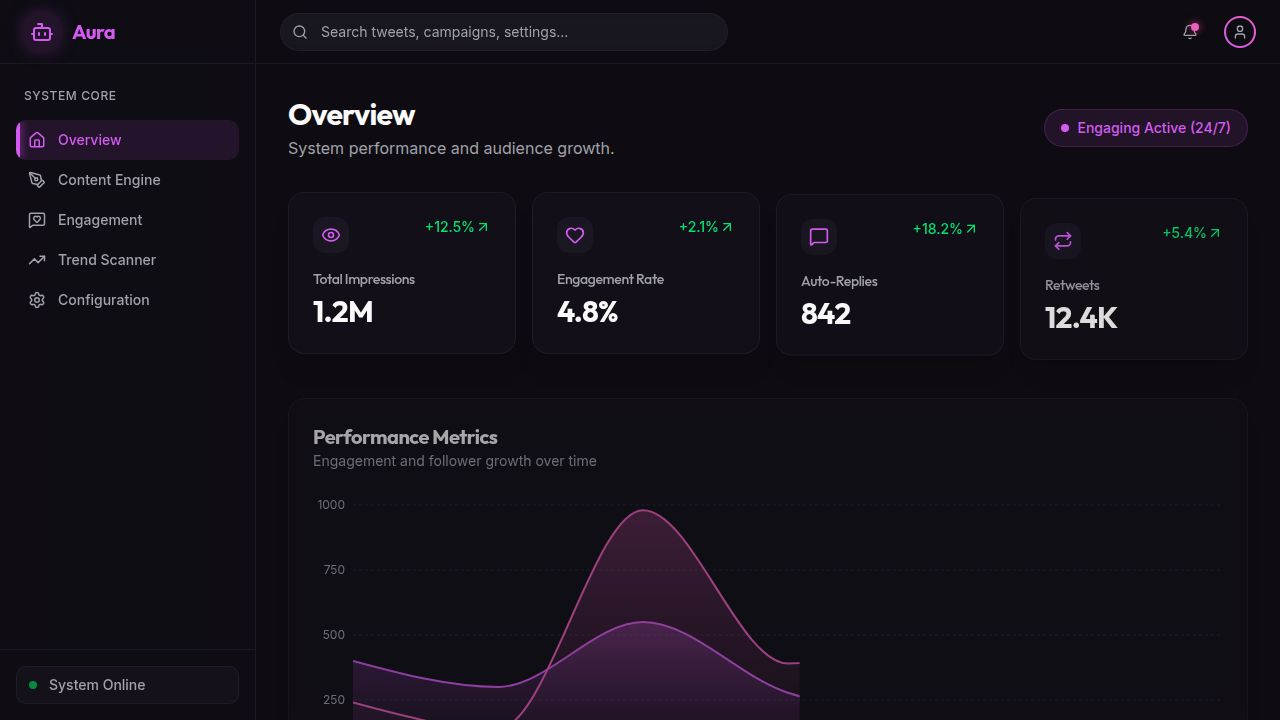
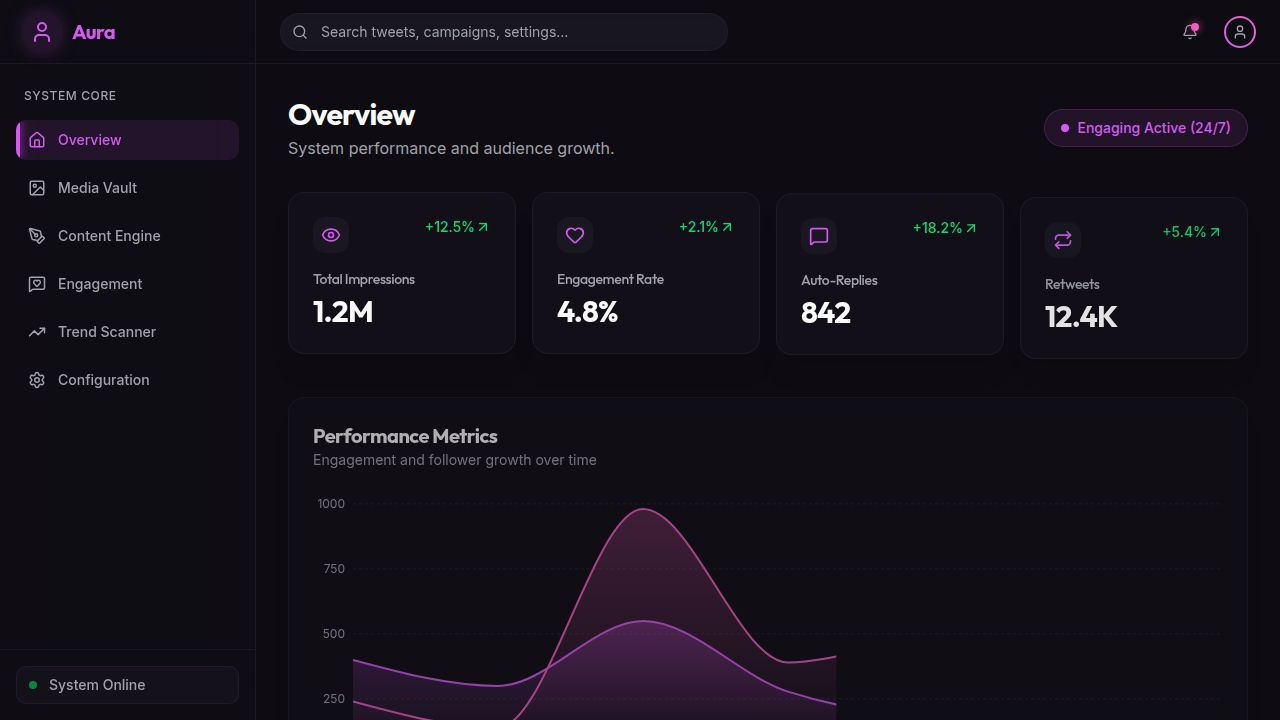
Add a media vault for managing and organizing visual content
Implement a new Media Vault page with upload, organization, and manual posting features, integrating with existing routing and sidebar navigation.

Replit-Commit-Author: Agent
Replit-Commit-Session-Id: 51af5744-ac7a-43ad-95ff-ba4354764f73
Replit-Commit-Checkpoint-Type: full_checkpoint
Replit-Commit-Event-Id: dd2f1466-1ec6-4f5a-ba32-b567d82b7162
Replit-Commit-Screenshot-Url: https://storage.googleapis.com/screenshot-production-us-central1/250770c3-5e93-465e-921a-23eb51e88370/51af5744-ac7a-43ad-95ff-ba4354764f73/h89SkTc
Replit-Helium-Checkpoint-Created: true

diff --git a/client/src/pages/MediaVault.tsx b/client/src/pages/MediaVault.tsx
@@ -1,0 +1,190 @@
+import { useState } from "react";
+import { Card } from "@/components/ui/card";
+import { Button } from "@/components/ui/button";
+import { Input } from "@/components/ui/input";
+import { Badge } from "@/components/ui/badge";
+import { 
+  Upload, 
+  Filter, 
+  Grid, 
+  List, 
+  Tag, 
+  History, 
+  Plus, 
+  MoreVertical,
+  CheckCircle2,
+  AlertCircle
+} from "lucide-react";
+import { motion, AnimatePresence } from "framer-motion";
+
+const MOCK_VAULT_ITEMS = [
+  { 
+    id: 1, 
+    url: "https://images.unsplash.com/photo-1515886657613-9f3515b0c78f?auto=format&fit=crop&q=80&w=400", 
+    mood: "Playful", 
+    outfit: "Summer Dress", 
+    usageCount: 2, 
+    lastUsed: "3 days ago",
+    risk: "safe" 
+  },
+  { 
+    id: 2, 
+    url: "https://images.unsplash.com/photo-1494790108377-be9c29b29330?auto=format&fit=crop&q=80&w=400", 
+    mood: "Confident", 
+    outfit: "Streetwear", 
+    usageCount: 0, 
+    lastUsed: "Never",
+    risk: "safe" 
+  },
+  { 
+    id: 3, 
+    url: "https://images.unsplash.com/photo-1529139513477-3235a14a139b?auto=format&fit=crop&q=80&w=400", 
+    mood: "Seductive", 
+    outfit: "Evening Wear", 
+    usageCount: 5, 
+    lastUsed: "12 hours ago",
+    risk: "spicy" 
+  }
+];
+
+export default function MediaVault() {
+  const [view, setView] = useState<"grid" | "list">("grid");
+
+  return (
+    <div className="space-y-8 pb-12">
+      <div className="flex flex-col md:flex-row md:items-center justify-between gap-4">
+        <div>
+          <h1 className="text-3xl font-bold font-display tracking-tight">Media Vault</h1>
+          <p className="text-muted-foreground mt-1">Securely manage and categorize your content library.</p>
+        </div>
+        <div className="flex items-center gap-2">
+          <Button variant="outline" size="sm" className="border-border/50">
+            <History className="w-4 h-4 mr-2" />
+            History
+          </Button>
+          <Button className="bg-primary text-white hover:bg-primary/90">
+            <Plus className="w-4 h-4 mr-2" />
+            Upload Media
+          </Button>
+        </div>
+      </div>
+
+      {/* Filters & Controls */}
+      <Card className="p-4 glass-panel border-border/50 flex flex-col md:flex-row items-center justify-between gap-4">
+        <div className="flex items-center gap-4 w-full md:w-auto">
+          <div className="relative flex-1 md:w-64">
+            <Input placeholder="Filter by tag or theme..." className="pl-9 bg-background/50" />
+            <Filter className="absolute left-3 top-1/2 -translate-y-1/2 w-4 h-4 text-muted-foreground" />
+          </div>
+          <div className="flex items-center border border-border/50 rounded-lg p-1 bg-background/30">
+            <Button 
+              variant="ghost" 
+              size="sm" 
+              className={view === 'grid' ? 'bg-secondary text-primary' : 'text-muted-foreground'}
+              onClick={() => setView('grid')}
+            >
+              <Grid className="w-4 h-4" />
+            </Button>
+            <Button 
+              variant="ghost" 
+              size="sm" 
+              className={view === 'list' ? 'bg-secondary text-primary' : 'text-muted-foreground'}
+              onClick={() => setView('list')}
+            >
+              <List className="w-4 h-4" />
+            </Button>
+          </div>
+        </div>
+        
+        <div className="flex items-center gap-3">
+          <Badge variant="outline" className="cursor-pointer hover:bg-secondary transition-colors">Safe</Badge>
+          <Badge variant="outline" className="cursor-pointer hover:bg-secondary transition-colors">Spicy</Badge>
+          <Badge variant="outline" className="cursor-pointer hover:bg-secondary transition-colors">Unused</Badge>
+        </div>
+      </Card>
+
+      {/* Vault Grid */}
+      <div className="grid grid-cols-2 md:grid-cols-3 lg:grid-cols-4 gap-6">
+        {/* Upload Placeholder */}
+        <motion.div
+          whileHover={{ scale: 1.02 }}
+          className="aspect-[3/4] rounded-xl border-2 border-dashed border-border/50 flex flex-col items-center justify-center gap-3 cursor-pointer hover:border-primary/50 hover:bg-primary/5 transition-all group"
+        >
+          <div className="w-12 h-12 rounded-full bg-secondary/50 flex items-center justify-center text-muted-foreground group-hover:text-primary transition-colors">
+            <Upload className="w-6 h-6" />
+          </div>
+          <p className="text-sm font-medium text-muted-foreground group-hover:text-primary">Drag & Drop</p>
+        </motion.div>
+
+        {MOCK_VAULT_ITEMS.map((item, i) => (
+          <motion.div
+            key={item.id}
+            initial={{ opacity: 0, y: 20 }}
+            animate={{ opacity: 1, y: 0 }}
+            transition={{ delay: i * 0.1 }}
+            className="group relative"
+          >
+            <Card className="overflow-hidden glass-panel border-border/50 hover:border-primary/30 transition-all duration-300 h-full">
+              <div className="aspect-[3/4] relative overflow-hidden">
+                <img 
+                  src={item.url} 
+                  alt="Vault content" 
+                  className="w-full h-full object-cover transition-transform duration-500 group-hover:scale-110"
+                />
+                <div className="absolute inset-0 bg-gradient-to-t from-black/80 via-transparent to-transparent opacity-0 group-hover:opacity-100 transition-opacity duration-300" />
+                
+                <div className="absolute top-2 right-2">
+                  <Button variant="secondary" size="icon" className="w-8 h-8 rounded-full bg-black/40 backdrop-blur-md border-white/10 hover:bg-black/60">
+                    <MoreVertical className="w-4 h-4" />
+                  </Button>
+                </div>
+
+                <div className="absolute bottom-3 left-3 right-3 translate-y-4 group-hover:translate-y-0 transition-transform duration-300">
+                  <Button className="w-full bg-primary text-white shadow-lg shadow-primary/20">
+                    Use in Post
+                  </Button>
+                </div>
+
+                {item.usageCount > 3 && (
+                  <Badge className="absolute top-2 left-2 bg-yellow-500/90 text-black border-0">
+                    High Usage
+                  </Badge>
+                )}
+              </div>
+              
+              <div className="p-4 space-y-3">
+                <div className="flex items-center justify-between">
+                  <Badge variant="secondary" className="text-[10px] uppercase tracking-wider">{item.mood}</Badge>
+                  <span className="text-[10px] text-muted-foreground flex items-center gap-1">
+                    <History className="w-3 h-3" /> {item.lastUsed}
+                  </span>
+                </div>
+                <div className="flex items-center gap-2">
+                  <Tag className="w-3 h-3 text-primary" />
+                  <span className="text-xs text-muted-foreground truncate">{item.outfit}</span>
+                </div>
+              </div>
+            </Card>
+          </motion.div>
+        ))}
+      </div>
+
+      {/* Risk Alert */}
+      <AnimatePresence>
+        <motion.div
+          initial={{ opacity: 0, y: 20 }}
+          animate={{ opacity: 1, y: 0 }}
+          className="bg-yellow-500/10 border border-yellow-500/20 rounded-xl p-4 flex items-start gap-4"
+        >
+          <AlertCircle className="w-5 h-5 text-yellow-500 shrink-0 mt-0.5" />
+          <div className="space-y-1">
+            <p className="text-sm font-medium text-yellow-500">Frequency Warning</p>
+            <p className="text-xs text-muted-foreground leading-relaxed">
+              One of your selected images was posted <strong className="text-foreground">12 hours ago</strong>. To avoid bot-like patterns, we recommend waiting at least 48 hours before reposting similar content.
+            </p>
+          </div>
+        </motion.div>
+      </AnimatePresence>
+    </div>
+  );
+}

diff --git a/client/src/App.tsx b/client/src/App.tsx
@@ -7,6 +7,7 @@ import NotFound from "@/pages/not-found";
 import { Layout } from "@/components/layout/Layout";
 import Dashboard from "@/pages/Dashboard";
 import ContentEngine from "@/pages/ContentEngine";
+import MediaVault from "@/pages/MediaVault";
 import EngagementEngine from "@/pages/EngagementEngine";
 import TrendScanner from "@/pages/TrendScanner";
 import SettingsPage from "@/pages/Settings";
@@ -16,6 +17,7 @@ function Router() {
     <Layout>
       <Switch>
         <Route path="/" component={Dashboard}/>
+        <Route path="/vault" component={MediaVault}/>
         <Route path="/content" component={ContentEngine}/>
         <Route path="/engagement" component={EngagementEngine}/>
         <Route path="/trends" component={TrendScanner}/>

diff --git a/client/src/components/layout/Sidebar.tsx b/client/src/components/layout/Sidebar.tsx
@@ -5,12 +5,14 @@ import {
   MessageSquareHeart, 
   TrendingUp, 
   Settings,
-  User
+  User,
+  Image
 } from "lucide-react";
 import { cn } from "@/lib/utils";
 
 const navItems = [
   { href: "/", label: "Overview", icon: Home },
+  { href: "/vault", label: "Media Vault", icon: Image },
   { href: "/content", label: "Content Engine", icon: PenTool },
   { href: "/engagement", label: "Engagement", icon: MessageSquareHeart },
   { href: "/trends", label: "Trend Scanner", icon: TrendingUp },
